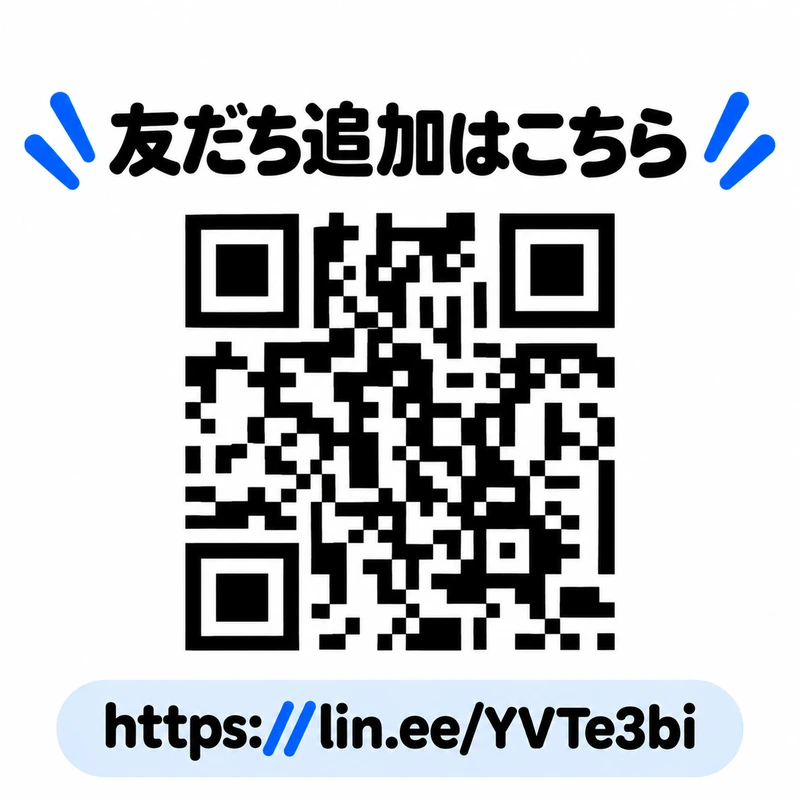
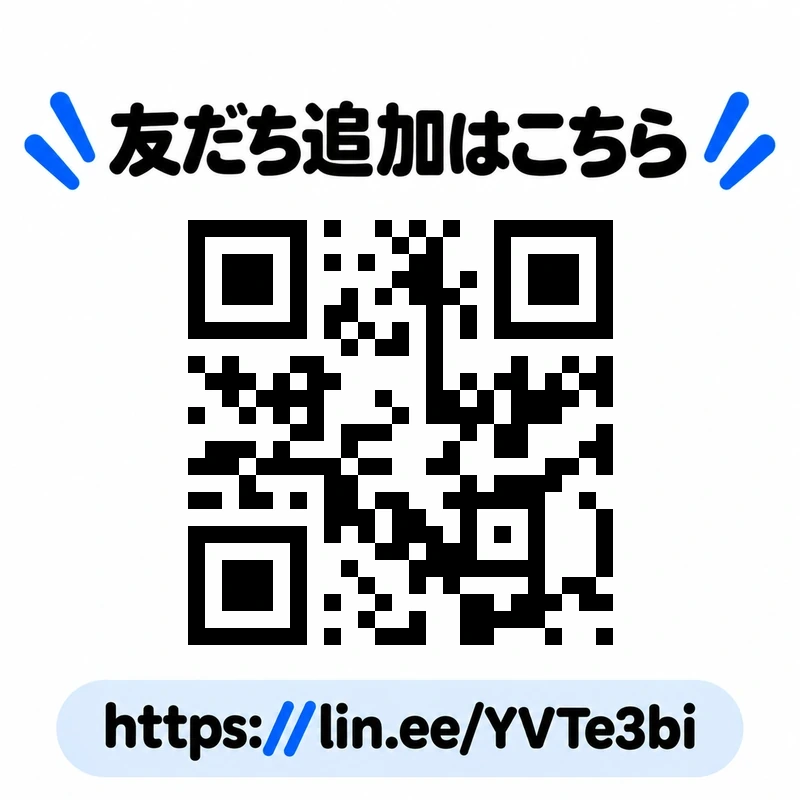
Match the about-page news card to the 9board card and shrink the QR codes
The 最新情報 card on the 自己紹介 page still showed the old screenshot,
a full-width LINE poster, the pool-note feature list, URL and QR. It now
uses the same layout and images as the 9board card under 制作実績:
phone screenshot on the left, logo, the two QR tiles and the two-line
description on the right.

Both cards share one set of styles, and the QR tiles drop from about
277px to 150px wide (120px on phones). The LINE poster's code did not
scan reliably at that size, so its code area is regenerated as a clean
QR for the same https://lin.ee/YVTe3bi link.

Claude-Session: https://claude.ai/code/session_01NMVPcgdF62xqnEjoqhsAG3

Changed region(s): [[0.2188, 0.25, 0.7812, 0.8125]]

diff --git a/index-original.html b/index-original.html
@@ -1083,33 +1083,34 @@
     .project-link-row { display: flex; align-items: center; gap: 16px; margin-top: 20px; }
     .project-link-row b { margin-top: 0; padding-top: 0; }
     .project-link-row .project-qr { width: 112px; height: 112px; flex: none; background: #fff; border: 1.5px solid var(--ink); border-radius: 12px; padding: 6px; }
-    .about-nineboard-news .news-card-image { aspect-ratio: 1564 / 903; max-height: none; }
-    .about-nineboard-line { display: block; margin-top: 18px; }
-    .about-nineboard-line img { display: block; width: 100%; height: auto; }
-
-    /* 9board portfolio card: screenshot on the left, logo > QR > copy on the right */
-    .portfolio-pool { grid-template-columns: minmax(220px, .8fr) 1.2fr; grid-template-rows: auto 1fr; grid-template-areas: "shot logo" "shot body"; align-items: start; gap: 16px 28px; }
-    .portfolio-pool .nineboard-shot { grid-area: shot; aspect-ratio: 720 / 1082; max-height: none; }
-    .portfolio-pool .nineboard-shot img { object-fit: cover; object-position: center top; }
-    .portfolio-pool .nineboard-logo { grid-area: logo; margin: 0; border: 1.5px solid var(--ink); border-radius: 22px; background: #fff; overflow: hidden; font-size: 0; line-height: 0; }
-    .portfolio-pool .nineboard-logo img { display: block; width: 100%; height: auto; }
-    .portfolio-pool .news-card-body { grid-area: body; align-self: stretch; }
-    .portfolio-pool .nineboard-qr-group { display: grid; grid-template-columns: repeat(2, minmax(0, 1fr)); gap: 14px; }
-    .portfolio-pool .nineboard-qr-group a { display: block; border: 1.5px solid var(--ink); border-radius: 18px; background: #fff; overflow: hidden; transition: transform .2s ease, box-shadow .2s ease; }
-    .portfolio-pool .nineboard-qr-group a:hover { transform: translate(-2px, -2px); box-shadow: 4px 4px 0 var(--ink); }
-    .portfolio-pool .nineboard-qr-group img { display: block; width: 100%; height: auto; }
-    .portfolio-pool .nineboard-copy { margin: 18px 0; font-size: clamp(14px, 1.5vw, 16px); font-weight: 700; line-height: 1.75; }
-    .portfolio-pool .news-card-link { flex-wrap: wrap; }
+    /* 9board card (制作実績 + 自己紹介の最新情報): screenshot on the left, logo > QR > copy on the right */
+    .nineboard-card { grid-template-columns: minmax(200px, 300px) minmax(0, 1fr); grid-template-rows: auto 1fr; grid-template-areas: "shot logo" "shot body"; align-items: start; gap: 16px 28px; }
+    .nineboard-card .nineboard-shot { grid-area: shot; aspect-ratio: 720 / 1082; max-height: none; }
+    .nineboard-card .nineboard-shot img { object-fit: cover; object-position: center top; }
+    .nineboard-card .nineboard-logo { grid-area: logo; margin: 0; border: 1.5px solid var(--ink); border-radius: 22px; background: #fff; overflow: hidden; font-size: 0; line-height: 0; }
+    .nineboard-card .nineboard-logo img { display: block; width: 100%; height: auto; }
+    .nineboard-card .news-card-body { grid-area: body; align-self: stretch; }
+    .nineboard-card .nineboard-qr-group { display: grid; grid-template-columns: repeat(2, minmax(0, 150px)); gap: 14px; }
+    .nineboard-card .nineboard-qr-group a { display: block; border: 1.5px solid var(--ink); border-radius: 14px; background: #fff; overflow: hidden; transition: transform .2s ease, box-shadow .2s ease; }
+    .nineboard-card .nineboard-qr-group a:hover { transform: translate(-2px, -2px); box-shadow: 4px 4px 0 var(--ink); }
+    .nineboard-card .nineboard-qr-group img { display: block; width: 100%; height: auto; }
+    .nineboard-card .nineboard-copy { margin: 18px 0; font-size: clamp(14px, 1.5vw, 16px); font-weight: 700; line-height: 1.75; }
+    .nineboard-card .news-card-link { flex-wrap: wrap; }
+    .about-nineboard-news { grid-template-rows: auto auto 1fr; grid-template-areas: "shot head" "shot logo" "shot body"; }
+    .about-nineboard-news .news-card-head { grid-area: head; margin-bottom: 0; }
     @media (max-width: 900px) {
-      .portfolio-pool { grid-template-columns: 1fr; grid-template-rows: none; grid-template-areas: "logo" "shot" "body"; gap: 16px; }
-      .portfolio-pool .nineboard-shot { width: min(100%, 320px); justify-self: center; }
+      .nineboard-card { grid-template-columns: 1fr; grid-template-rows: none; grid-template-areas: "logo" "shot" "body"; gap: 16px; }
+      .about-nineboard-news { grid-template-areas: "head" "logo" "shot" "body"; }
+      .nineboard-card .nineboard-shot { width: min(100%, 320px); justify-self: center; }
+      .nineboard-card .nineboard-qr-group { justify-content: center; }
+      .nineboard-card .nineboard-copy { text-align: center; }
     }
     @media (max-width: 680px) {
-      .portfolio-pool .nineboard-shot { width: min(78%, 300px); }
-      .portfolio-pool .nineboard-logo { border-radius: 16px; }
-      .portfolio-pool .nineboard-qr-group { gap: 10px; }
-      .portfolio-pool .nineboard-qr-group a { border-radius: 14px; }
-      .portfolio-pool .nineboard-copy { margin: 14px 0; font-size: 13.5px; }
+      .nineboard-card .nineboard-shot { width: min(78%, 300px); }
+      .nineboard-card .nineboard-logo { border-radius: 16px; }
+      .nineboard-card .nineboard-qr-group { grid-template-columns: repeat(2, minmax(0, 120px)); gap: 10px; }
+      .nineboard-card .nineboard-qr-group a { border-radius: 12px; }
+      .nineboard-card .nineboard-copy { margin: 14px 0; font-size: 13.5px; }
     }
 </style>
 </head>
@@ -1215,7 +1216,7 @@
 
         <section class="work-category" data-work-panel="web">
           <div class="project-list">
-<div class="news-card portfolio-pool">
+<div class="news-card nineboard-card portfolio-pool">
             <div class="news-card-image nineboard-shot">
               <img src="assets/9board-screen.webp" alt="9boardの配置図画面（スマホ版）" width="720" height="1082" loading="lazy" />
             </div>
@@ -1446,34 +1447,21 @@
             <article><b>PC・スマホサポート</b><p>基本操作、設定、便利な使い方などをわかりやすくサポート。</p></article>
           </div>
 
-          <div class="news-card about-nineboard-news">
-            <div class="about-nineboard-visuals">
-              <div class="news-card-image">
-                <img src="assets/9board-editor-original.png" alt="9Board配置編集画面" loading="lazy" />
-              </div>
-              <a class="about-nineboard-line" href="https://lin.ee/YVTe3bi" target="_blank" rel="noopener">
-                <img src="assets/9board-line-original.png" alt="9Board公式LINE 友だち追加はこちら" loading="lazy" />
-              </a>
+          <div class="news-card nineboard-card about-nineboard-news">
+            <div class="news-card-image nineboard-shot">
+              <img src="assets/9board-screen.webp" alt="9boardの配置図画面（スマホ版）" width="720" height="1082" loading="lazy" />
             </div>
+            <div class="news-card-head">
+              <h3>最新情報</h3>
+              <p class="news-card-date">2026年9月　ChatGPTとClaudeCodeで作成</p>
+            </div>
+            <p class="nineboard-logo"><img src="assets/9board-logo.webp" alt="9board" width="1200" height="295" loading="lazy" /></p>
             <div class="news-card-body">
-              <div class="news-card-head">
-                <h3>最新情報</h3>
-                <p class="news-card-date">2026年9月　ChatGPTとClaudeCodeで作成</p>
+              <div class="nineboard-qr-group">
+                <a href="https://9board.jp/" target="_blank" rel="noopener" aria-label="9board公式サイトを開く"><img src="assets/9board-site-qr.webp" alt="9board公式サイトのQRコード https://9board.jp/" width="800" height="800" loading="lazy" /></a>
+                <a href="https://lin.ee/YVTe3bi" target="_blank" rel="noopener" aria-label="9board公式LINEを友だち追加"><img src="assets/9board-line-qr.webp" alt="9board公式LINE 友だち追加のQRコード" width="800" height="800" loading="lazy" /></a>
               </div>
-              <p><b>ビリヤード配置図メーカー</b>で、なにができる？</p>
-              <ul class="news-card-list">
-                <li>ビリヤードの台と球の配置を視覚的に作成・管理できるツール</li>
-                <li>マウスドラッグで球を自由に配置</li>
-                <li>複数の球の位置をまとめて保存・読み込み可能</li>
-                <li>ショット予測線を引いて、イメージトレーニングに活用</li>
-                <li>異なるビリヤード形式（9ボール、8ボール等）の配置に対応</li>
-                <li>画像として保存</li>
-                <li>キャッシュクリアするまで保持できる保存機能つき</li>
-              </ul>
-              <div class="news-card-link">
-                <a href="https://waraka2026.github.io/pool-note/">https://waraka2026.github.io/pool-note/</a>
-                <img class="news-card-qr" src="assets/pool-note-qr.svg" alt="ビリヤード配置図メーカーへのQRコード" width="84" height="84" />
-              </div>
+              <p class="nineboard-copy">配置図・スコア・対戦記録をスマホで。<br />練習も試合も支えるビリヤードツール。</p>
             </div>
           </div>
         </div>

diff --git a/index.html b/index.html
@@ -13,7 +13,7 @@
   <p>Loading portfolio...</p>
   <script>
     (function(){
-      var version='20261010-9board-v2';
+      var version='20261010-9board-v3';
       fetch('index-original.html?v='+version,{cache:'no-store'})
         .then(function(response){return response.text();})
         .then(function(html){
